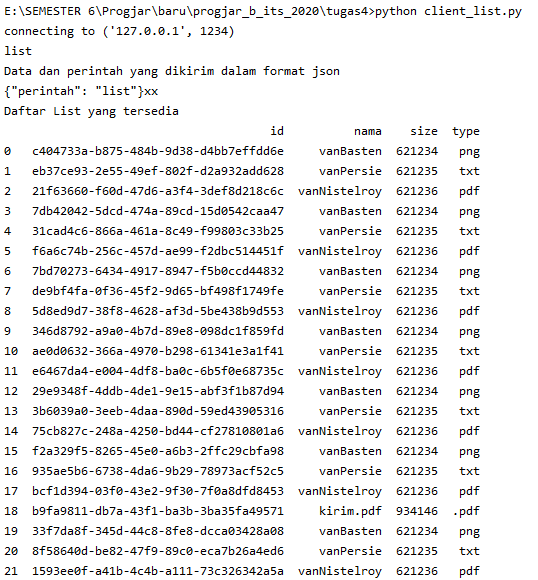
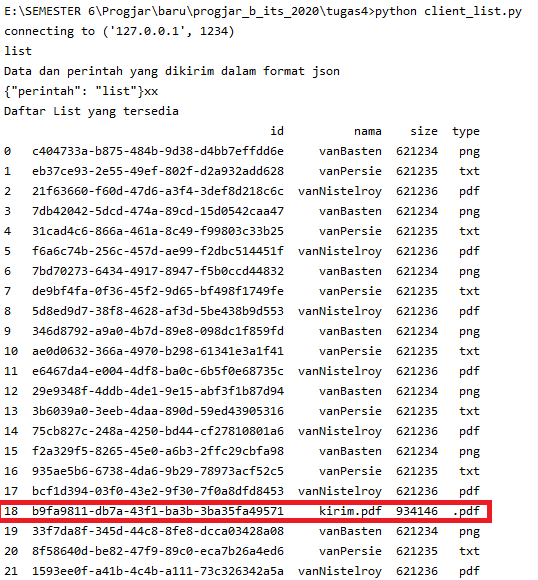
bener

Changed region(s): [[0.0, 0.8379, 0.9219, 0.9]]

diff --git a/tugas4/person_machine.py b/tugas4/person_machine.py
@@ -12,7 +12,7 @@ FITUR
 
 - upload : untuk membuat file yang dikirim oleh client
   request : upload
-  parameter : (spasi) nama file
+  parameter : nama file
   response : berhasil -> OK
              gagal -> ERROR
 
@@ -23,7 +23,7 @@ FITUR
 
 - download : untuk mencari file berdasar nama
   request: get 
-  parameter: (spaso) nama file yang dicari
+  parameter: nama file yang dicari
   response: file yang dicari dalam bentuk json format
 
 - jika command tidak dikenali akan merespon dengan ERRCMD

diff --git a/tugas4/README.md b/tugas4/README.md
@@ -68,6 +68,8 @@
 
 ![Client](foto/list.png)
 
+Keterangan : Yang diberi kotak merah adalah data yang tersimpan di database pada saat upload. Yang lainnya adaah data dummy.
+
 * Hasil dari server_thread_person.py yang berhasil me return daftar data file yang ada dalam mydata.dir
 
 ![Server](foto/list2.png)
